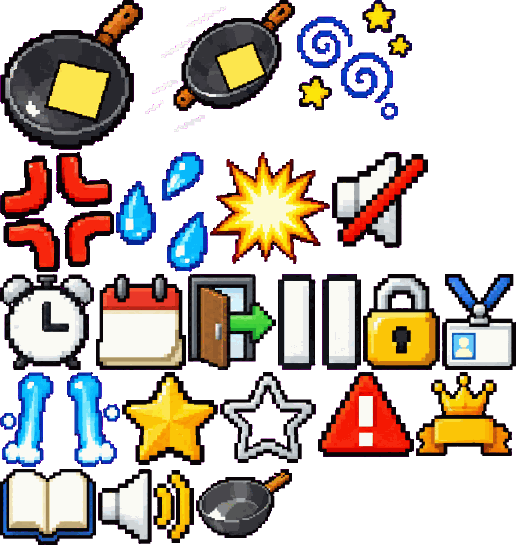
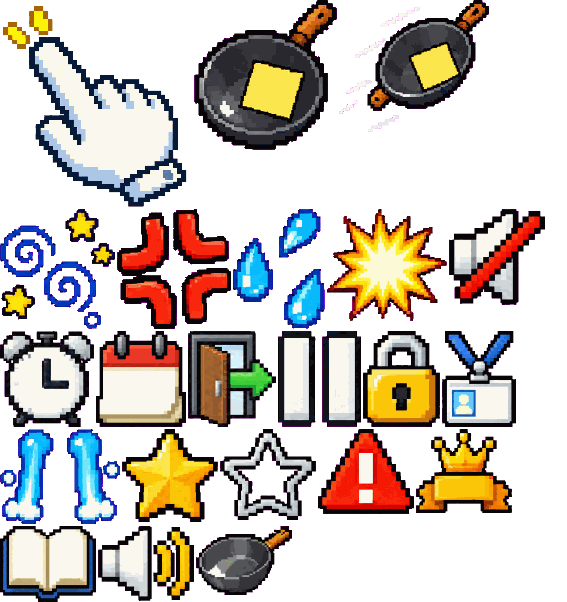
这锅你来背：增加带教手指引导并锁定开始上班确认

diff --git a/js/atlas.js b/js/atlas.js
@@ -1,2 +1,2 @@
 /* 由 assets_pixel/pack_atlas.py 自动生成，不要手改。每张图集里各小图的位置 [x, y, 宽, 高]；文件名带内容哈希，图集更新后浏览器会重新下载 */
-window.ATLAS = {"sheets":[{"file":"boss.png?v=c84c7d96","frames":{"boss_aim":[275,0,234,300],"boss_chase":[0,0,273,300],"boss_idle":[511,0,219,300],"boss_walk":[355,604,168,300],"boss_walk_d0":[525,604,184,297],"boss_walk_d1":[711,604,184,297],"boss_walk_d2":[0,906,184,297],"boss_walk_d3":[186,906,184,297],"boss_walk_s0":[732,0,187,300],"boss_walk_s1":[188,302,176,300],"boss_walk_s2":[0,302,186,300],"boss_walk_s3":[178,604,175,300],"boss_walk_u0":[366,302,176,300],"boss_walk_u1":[544,302,176,300],"boss_walk_u2":[722,302,176,300],"boss_walk_u3":[0,604,176,300]}},{"file":"props.png?v=6e7ce578","frames":{"boss_desk":[529,0,408,326],"cabinet":[556,654,225,218],"cooler":[442,362,132,251],"desk":[0,362,440,290],"meeting_table":[0,0,527,360],"plant":[321,654,233,222],"plant_small":[345,878,145,163],"printer":[783,654,203,205],"sofa":[0,878,343,196],"tea_counter":[0,654,319,222],"whiteboard":[576,362,286,231]}},{"file":"designer.png?v=8859db51","frames":{"designer_angry":[0,0,196,230],"designer_flat":[138,696,230,105],"designer_hit":[198,0,188,230],"designer_normal":[0,696,136,230],"designer_walk_d0":[147,464,144,230],"designer_walk_d1":[585,464,143,230],"designer_walk_d2":[388,0,146,230],"designer_walk_d3":[293,464,144,230],"designer_walk_s0":[536,0,146,230],"designer_walk_s1":[0,464,145,230],"designer_walk_s2":[0,232,146,230],"designer_walk_s3":[439,464,144,230],"designer_walk_u0":[148,232,146,230],"designer_walk_u1":[296,232,146,230],"designer_walk_u2":[444,232,146,230],"designer_walk_u3":[592,232,146,230]}},{"file":"director.png?v=8661d6e9","frames":{"director_aim":[636,604,300,287],"director_chase":[0,0,263,300],"director_idle":[488,604,146,300],"director_walk":[806,0,173,300],"director_walk_d0":[517,302,165,300],"director_walk_d1":[326,604,160,300],"director_walk_d2":[265,0,180,300],"director_walk_d3":[0,604,161,300],"director_walk_s0":[0,302,173,300],"director_walk_s1":[163,604,161,300],"director_walk_s2":[175,302,172,300],"director_walk_s3":[849,302,162,300],"director_walk_u0":[447,0,178,300],"director_walk_u1":[349,302,166,300],"director_walk_u2":[627,0,177,300],"director_walk_u3":[684,302,163,300]}},{"file":"misc.png?v=54102145","frames":{"fx_anger":[0,152,114,120],"fx_dizzy":[297,0,115,120],"fx_impact":[210,152,120,112],"fx_sweat":[116,152,92,120],"fx_tears":[0,372,120,95],"ui_badge":[442,274,74,96],"ui_book":[0,469,96,76],"ui_calendar":[96,274,90,96],"ui_clock":[0,274,94,96],"ui_crown":[416,372,96,84],"ui_exit":[188,274,88,96],"ui_lock":[363,274,77,96],"ui_pause":[278,274,83,96],"ui_sound_off":[332,152,96,96],"ui_sound_on":[98,469,96,75],"ui_star":[122,372,96,93],"ui_star_empty":[220,372,96,91],"ui_warning":[318,372,96,85],"ui_wok":[196,469,96,69],"wok":[0,0,143,150],"wok_flying":[145,0,150,132]}},{"file":"intern.png?v=46c1a2f4","frames":{"intern_cry":[0,0,168,230],"intern_flat":[0,696,230,113],"intern_hit":[170,0,159,230],"intern_normal":[563,464,130,230],"intern_walk_d0":[440,232,140,230],"intern_walk_d1":[0,464,139,230],"intern_walk_d2":[154,232,141,230],"intern_walk_d3":[297,232,141,230],"intern_walk_s0":[331,0,152,230],"intern_walk_s1":[485,0,152,230],"intern_walk_s2":[639,0,152,230],"intern_walk_s3":[0,232,152,230],"intern_walk_u0":[423,464,138,230],"intern_walk_u1":[582,232,140,230],"intern_walk_u2":[141,464,139,230],"intern_walk_u3":[282,464,139,230]}},{"file":"player.png?v=f99e8b0e","frames":{"player_crushed":[0,696,230,217],"player_normal":[289,464,139,230],"player_panic":[0,0,177,230],"player_walk_d0":[295,232,144,230],"player_walk_d1":[441,232,144,230],"player_walk_d2":[329,0,146,230],"player_walk_d3":[587,232,143,230],"player_walk_s0":[0,464,143,230],"player_walk_s1":[430,464,139,230],"player_walk_s2":[145,464,142,230],"player_walk_s3":[571,464,139,230],"player_walk_u0":[477,0,146,230],"player_walk_u1":[625,0,146,230],"player_walk_u2":[0,232,146,230],"player_walk_u3":[148,232,145,230],"player_win":[179,0,148,230]}},{"file":"pm.png?v=2ad2713c","frames":{"pm_angry":[0,0,148,230],"pm_flat":[463,464,230,116],"pm_hit":[150,0,148,230],"pm_normal":[547,0,118,230],"pm_walk_d0":[0,232,118,230],"pm_walk_d1":[234,464,113,230],"pm_walk_d2":[358,232,116,230],"pm_walk_d3":[349,464,112,230],"pm_walk_s0":[120,232,117,230],"pm_walk_s1":[476,232,116,230],"pm_walk_s2":[239,232,117,230],"pm_walk_s3":[594,232,116,230],"pm_walk_u0":[424,0,121,230],"pm_walk_u1":[0,464,115,230],"pm_walk_u2":[300,0,122,230],"pm_walk_u3":[117,464,115,230]}},{"file":"tester.png?v=40e278a0","frames":{"tester_angry":[0,0,166,230],"tester_flat":[0,696,230,104],"tester_hit":[168,0,157,230],"tester_normal":[146,232,136,230],"tester_walk_d0":[418,232,131,230],"tester_walk_d1":[551,232,131,230],"tester_walk_d2":[0,464,131,230],"tester_walk_d3":[133,464,131,230],"tester_walk_s0":[327,0,152,230],"tester_walk_s1":[629,0,144,230],"tester_walk_s2":[481,0,146,230],"tester_walk_s3":[0,232,144,230],"tester_walk_u0":[266,464,130,230],"tester_walk_u1":[398,464,130,230],"tester_walk_u2":[284,232,132,230],"tester_walk_u3":[530,464,130,230]}},{"file":"veteran.png?v=6a5f6ad4","frames":{"veteran_flat":[0,696,230,101],"veteran_hit":[0,0,175,230],"veteran_normal":[634,0,149,230],"veteran_tea":[330,0,150,230],"veteran_walk_d0":[177,0,151,230],"veteran_walk_d1":[300,232,143,230],"veteran_walk_d2":[482,0,150,230],"veteran_walk_d3":[445,232,142,230],"veteran_walk_s0":[0,464,137,230],"veteran_walk_s1":[546,464,126,230],"veteran_walk_s2":[589,232,138,230],"veteran_walk_s3":[417,464,127,230],"veteran_walk_u0":[0,232,149,230],"veteran_walk_u1":[139,464,137,230],"veteran_walk_u2":[151,232,147,230],"veteran_walk_u3":[278,464,137,230]}}]};
+window.ATLAS = {"sheets":[{"file":"boss.png?v=c84c7d96","frames":{"boss_aim":[275,0,234,300],"boss_chase":[0,0,273,300],"boss_idle":[511,0,219,300],"boss_walk":[355,604,168,300],"boss_walk_d0":[525,604,184,297],"boss_walk_d1":[711,604,184,297],"boss_walk_d2":[0,906,184,297],"boss_walk_d3":[186,906,184,297],"boss_walk_s0":[732,0,187,300],"boss_walk_s1":[188,302,176,300],"boss_walk_s2":[0,302,186,300],"boss_walk_s3":[178,604,175,300],"boss_walk_u0":[366,302,176,300],"boss_walk_u1":[544,302,176,300],"boss_walk_u2":[722,302,176,300],"boss_walk_u3":[0,604,176,300]}},{"file":"props.png?v=6e7ce578","frames":{"boss_desk":[529,0,408,326],"cabinet":[556,654,225,218],"cooler":[442,362,132,251],"desk":[0,362,440,290],"meeting_table":[0,0,527,360],"plant":[321,654,233,222],"plant_small":[345,878,145,163],"printer":[783,654,203,205],"sofa":[0,878,343,196],"tea_counter":[0,654,319,222],"whiteboard":[576,362,286,231]}},{"file":"designer.png?v=8859db51","frames":{"designer_angry":[0,0,196,230],"designer_flat":[138,696,230,105],"designer_hit":[198,0,188,230],"designer_normal":[0,696,136,230],"designer_walk_d0":[147,464,144,230],"designer_walk_d1":[585,464,143,230],"designer_walk_d2":[388,0,146,230],"designer_walk_d3":[293,464,144,230],"designer_walk_s0":[536,0,146,230],"designer_walk_s1":[0,464,145,230],"designer_walk_s2":[0,232,146,230],"designer_walk_s3":[439,464,144,230],"designer_walk_u0":[148,232,146,230],"designer_walk_u1":[296,232,146,230],"designer_walk_u2":[444,232,146,230],"designer_walk_u3":[592,232,146,230]}},{"file":"director.png?v=8661d6e9","frames":{"director_aim":[636,604,300,287],"director_chase":[0,0,263,300],"director_idle":[488,604,146,300],"director_walk":[806,0,173,300],"director_walk_d0":[517,302,165,300],"director_walk_d1":[326,604,160,300],"director_walk_d2":[265,0,180,300],"director_walk_d3":[0,604,161,300],"director_walk_s0":[0,302,173,300],"director_walk_s1":[163,604,161,300],"director_walk_s2":[175,302,172,300],"director_walk_s3":[849,302,162,300],"director_walk_u0":[447,0,178,300],"director_walk_u1":[349,302,166,300],"director_walk_u2":[627,0,177,300],"director_walk_u3":[684,302,163,300]}},{"file":"misc.png?v=68e9831a","frames":{"fx_anger":[117,209,114,120],"fx_dizzy":[0,209,115,120],"fx_impact":[327,209,120,112],"fx_sweat":[233,209,92,120],"fx_tears":[0,429,120,95],"ui_badge":[442,331,74,96],"ui_book":[0,526,96,76],"ui_calendar":[96,331,90,96],"ui_clock":[0,331,94,96],"ui_coach_hand":[0,0,192,207],"ui_crown":[416,429,96,84],"ui_exit":[188,331,88,96],"ui_lock":[363,331,77,96],"ui_pause":[278,331,83,96],"ui_sound_off":[449,209,96,96],"ui_sound_on":[98,526,96,75],"ui_star":[122,429,96,93],"ui_star_empty":[220,429,96,91],"ui_warning":[318,429,96,85],"ui_wok":[196,526,96,69],"wok":[194,0,143,150],"wok_flying":[339,0,150,132]}},{"file":"intern.png?v=46c1a2f4","frames":{"intern_cry":[0,0,168,230],"intern_flat":[0,696,230,113],"intern_hit":[170,0,159,230],"intern_normal":[563,464,130,230],"intern_walk_d0":[440,232,140,230],"intern_walk_d1":[0,464,139,230],"intern_walk_d2":[154,232,141,230],"intern_walk_d3":[297,232,141,230],"intern_walk_s0":[331,0,152,230],"intern_walk_s1":[485,0,152,230],"intern_walk_s2":[639,0,152,230],"intern_walk_s3":[0,232,152,230],"intern_walk_u0":[423,464,138,230],"intern_walk_u1":[582,232,140,230],"intern_walk_u2":[141,464,139,230],"intern_walk_u3":[282,464,139,230]}},{"file":"player.png?v=f99e8b0e","frames":{"player_crushed":[0,696,230,217],"player_normal":[289,464,139,230],"player_panic":[0,0,177,230],"player_walk_d0":[295,232,144,230],"player_walk_d1":[441,232,144,230],"player_walk_d2":[329,0,146,230],"player_walk_d3":[587,232,143,230],"player_walk_s0":[0,464,143,230],"player_walk_s1":[430,464,139,230],"player_walk_s2":[145,464,142,230],"player_walk_s3":[571,464,139,230],"player_walk_u0":[477,0,146,230],"player_walk_u1":[625,0,146,230],"player_walk_u2":[0,232,146,230],"player_walk_u3":[148,232,145,230],"player_win":[179,0,148,230]}},{"file":"pm.png?v=2ad2713c","frames":{"pm_angry":[0,0,148,230],"pm_flat":[463,464,230,116],"pm_hit":[150,0,148,230],"pm_normal":[547,0,118,230],"pm_walk_d0":[0,232,118,230],"pm_walk_d1":[234,464,113,230],"pm_walk_d2":[358,232,116,230],"pm_walk_d3":[349,464,112,230],"pm_walk_s0":[120,232,117,230],"pm_walk_s1":[476,232,116,230],"pm_walk_s2":[239,232,117,230],"pm_walk_s3":[594,232,116,230],"pm_walk_u0":[424,0,121,230],"pm_walk_u1":[0,464,115,230],"pm_walk_u2":[300,0,122,230],"pm_walk_u3":[117,464,115,230]}},{"file":"tester.png?v=40e278a0","frames":{"tester_angry":[0,0,166,230],"tester_flat":[0,696,230,104],"tester_hit":[168,0,157,230],"tester_normal":[146,232,136,230],"tester_walk_d0":[418,232,131,230],"tester_walk_d1":[551,232,131,230],"tester_walk_d2":[0,464,131,230],"tester_walk_d3":[133,464,131,230],"tester_walk_s0":[327,0,152,230],"tester_walk_s1":[629,0,144,230],"tester_walk_s2":[481,0,146,230],"tester_walk_s3":[0,232,144,230],"tester_walk_u0":[266,464,130,230],"tester_walk_u1":[398,464,130,230],"tester_walk_u2":[284,232,132,230],"tester_walk_u3":[530,464,130,230]}},{"file":"veteran.png?v=6a5f6ad4","frames":{"veteran_flat":[0,696,230,101],"veteran_hit":[0,0,175,230],"veteran_normal":[634,0,149,230],"veteran_tea":[330,0,150,230],"veteran_walk_d0":[177,0,151,230],"veteran_walk_d1":[300,232,143,230],"veteran_walk_d2":[482,0,150,230],"veteran_walk_d3":[445,232,142,230],"veteran_walk_s0":[0,464,137,230],"veteran_walk_s1":[546,464,126,230],"veteran_walk_s2":[589,232,138,230],"veteran_walk_s3":[417,464,127,230],"veteran_walk_u0":[0,232,149,230],"veteran_walk_u1":[139,464,137,230],"veteran_walk_u2":[151,232,147,230],"veteran_walk_u3":[278,464,137,230]}}]};

diff --git a/js/game.js b/js/game.js
@@ -19,7 +19,7 @@
     'designer_normal', 'designer_hit', 'designer_angry', 'designer_flat',
     'veteran_normal', 'veteran_tea', 'veteran_hit', 'veteran_flat', 'intern_normal', 'intern_cry', 'intern_hit', 'intern_flat',
     'boss_walk', 'boss_aim', 'boss_chase', 'boss_idle', 'director_walk', 'director_aim', 'director_chase', 'director_idle',
-    'wok', 'wok_flying', 'fx_anger', 'fx_tears', 'fx_sweat', 'fx_dizzy', 'fx_impact', 'ui_wok', 'desk', 'meeting_table', 'boss_desk', 'plant', 'plant_small', 'printer', 'cooler',
+    'ui_coach_hand', 'wok', 'wok_flying', 'fx_anger', 'fx_tears', 'fx_sweat', 'fx_dizzy', 'fx_impact', 'ui_wok', 'desk', 'meeting_table', 'boss_desk', 'plant', 'plant_small', 'printer', 'cooler',
     'cabinet', 'whiteboard', 'tea_counter', 'sofa'];
   for (const who of ['player', 'pm', 'tester', 'designer', 'veteran', 'intern', 'boss', 'director'])
     for (const d of 'dus') for (let i = 0; i < 4; i++) SPRITES.push(`${who}_walk_${d}${i}`);
@@ -880,6 +880,46 @@
    * 步骤和文案在 levels.js 的 tutorial 里，这里只写每种步骤「怎么布置、怎么算完成」
    * 带教里的保护：锅不走时间；扇形里没人、站在领导视野里时按「甩」都只提醒不扔；同事站着不动，老板只按剧本丢锅
    * --------------------------------------------------------------------------------------- */
+  // 参考图生成的透明白手套从图集读取，保留宽手掌、长食指和黄色点击线。
+  const coachHand = document.createElement('div');
+  coachHand.id = 'coachHand';
+  coachHand.hidden = true;
+  coachHand.setAttribute('aria-hidden', 'true');
+  coachHand.innerHTML = '<img data-px="ui_coach_hand" alt="">';
+  document.body.appendChild(coachHand);
+  // 最后一步只有开始按钮可操作；进入和离开时清空输入，避免按住摇杆或键盘带入正式局。
+  function coachLocked() { return !!(S && S.tut && S.tut.def && S.tut.def.btn); }
+  function resetCoachInput() {
+    if (inp.id !== null) {
+      try { document.getElementById('stage').releasePointerCapture(inp.id); } catch (_) { /* 指针可能已释放 */ }
+    }
+    inp.down = false; inp.id = null; inp.mag = 0; inp.angle = null; inp.fire = 0; inp.keys = {};
+  }
+  // 捕获阶段拦住触屏、鼠标和快捷键；开始按钮仍可用点击、Enter 和空格激活。
+  for (const name of ['pointerdown', 'pointermove', 'pointerup', 'click', 'keydown', 'keyup', 'contextmenu']) {
+    window.addEventListener(name, (e) => {
+      if (!coachLocked() || mode !== 'play') return;
+      const onStart = e.target instanceof Element && e.target.closest('#hint .h-go');
+      if (onStart && (!name.startsWith('key') || ['Enter', ' '].includes(e.key))) return;
+      e.preventDefault(); e.stopImmediatePropagation();
+    }, { capture: true, passive: false });
+  }
+  // 手指跟随真正的控件位置，旋转屏幕、窄屏和横幅换行后也能指准。
+  function updateCoachHand() {
+    const T = mode === 'play' && S && S.tut;
+    let target = null;
+    if (T && T.step) {
+      if (T.def.btn) {
+        const button = document.querySelector('#hint .h-go');
+        if (button) { const r = button.getBoundingClientRect(); target = { x: r.right - 16, y: r.bottom - 12 }; }
+      } else if (T.step.do === 'walk' && !inp.down && !E.pollKeys(inp)) target = E.stickCenter();
+      else if (T.def.fire && potsOf(S.player) && pickAim(S.player) && !seenBy(S.player)) {
+        const r = btnThrow.getBoundingClientRect(); target = { x: r.left + r.width / 2, y: r.top + r.height / 2 };
+      }
+    }
+    coachHand.hidden = !target;
+    if (target) { coachHand.style.left = `${target.x - 19}px`; coachHand.style.top = `${target.y - 17}px`; }
+  }
   const TUT_BOSS_SPEED = 2;  // 带教时老板走路的倍速，别让人干等
   const TUT_RING_R = 34;     // 走进黄圈多近算到
   // 按人设名找场上的同事
@@ -955,6 +995,9 @@
     rank: {
       btn: '开始上班',
       enter() {
+        resetCoachInput();
+        document.body.classList.add('coach-locked');
+        document.querySelector('#hint .h-go').focus({ preventScroll: true });
         S.tut.showRank = true;
         const chip = document.getElementById('hRank').parentElement;
         chip.classList.remove('pulse'); void chip.offsetWidth; chip.classList.add('pulse');
@@ -999,6 +1042,7 @@
   // 带教结束（做完或跳过）：上班时钟从现在起算，带教里的锅开始走时间，大家回到正常状态
   function startWork() {
     if (!S || !S.tut) return;
+    resetCoachInput();
     S.tut = null;
     S.t0 = S.t;
     for (const a of S.agents) for (const pot of a.sn.segs) if (pot.due === Infinity) pot.due = S.t + potLife();
@@ -1194,6 +1238,8 @@
 
   /* ---------------- 主更新 ---------------- */
   function update(dt) {
+    // 最后一句等玩家确认，所有角色、飞锅和截止时间一起冻结。
+    if (coachLocked()) return;
     S.t += dt;
     if (S.tea > 0) S.tea -= dt;
     if (S.tut) updateTutorial(dt);
@@ -1817,6 +1863,8 @@
   /* ---------------- 流程 ---------------- */
   // 隐藏所有横幅
   function clearBanners() {
+    document.body.classList.remove('coach-locked');
+    coachHand.hidden = true;
     document.getElementById('hint').classList.remove('on');
     document.getElementById('msg').classList.remove('on');
     hintTimer = msgTimer = 0;
@@ -2131,5 +2179,6 @@
     updateBanners(mode === 'play' ? dt : 0);
     if (mode === 'lobby') updateLobby(dt);
     if (S) { draw(time); updateHud(); }
+    updateCoachHand();
   });
 })();

diff --git a/css/style.css b/css/style.css
@@ -466,7 +466,8 @@ button.chip { font-family: var(--display); cursor: pointer; pointer-events: auto
   filter: drop-shadow(0 4px 0 rgba(15, 22, 40, .55)); font-family: var(--pop-font); color: #fff;
 }
 #hint .h-tab {
-  position: absolute; left: 22px; top: -38px; padding: 0 12px; line-height: 28px; font-size: 17px; font-weight: 900; color: var(--ink); letter-spacing: .06em;
+  /* 标题牌压矮 8px，底边仍贴住横幅，减少向顶栏凸出的高度。 */
+  position: absolute; left: 22px; top: -30px; padding: 0 12px; line-height: 20px; font-size: 17px; font-weight: 900; color: var(--ink); letter-spacing: .06em;
   border: 6px solid transparent; border-image: var(--frame-yellow) 4 fill / 6px stretch; box-shadow: inset 0 -3px 0 var(--pop-gold);
 }
 #hint .h-ico {
@@ -510,3 +511,12 @@ button.chip { font-family: var(--display); cursor: pointer; pointer-events: auto
   .lb-day b img { height: 20px; }
   .lb-day span img { height: 20px; }
 }
+
+/* 带教手指：指尖落在目标上，装饰层不截获点击；最后一步只开放开始按钮。 */
+#coachHand { position: fixed; z-index: 12; width: 80px; height: 88px; pointer-events: none; }
+#coachHand img { display: block; width: 100%; height: 100%; object-fit: contain; image-rendering: pixelated; animation: coachTap 1.1s steps(2, end) infinite; }
+@keyframes coachTap { 0%, 100% { transform: translate(7px, 9px); } 45%, 65% { transform: translate(0, 0); } }
+.coach-locked #stage, .coach-locked #hud, .coach-locked #btnThrow { pointer-events: none; }
+.coach-locked #hint .h-go { position: relative; z-index: 1; }
+#hint .h-go:focus-visible { outline: 2px solid var(--paper); outline-offset: 2px; }
+@media (prefers-reduced-motion: reduce) { #coachHand img { animation: none; } }

diff --git a/implementation-notes.md b/implementation-notes.md
@@ -1,5 +1,23 @@
 # 这锅你来背 · 实现记录（临时）
 
+
+## 带教手指换参考图素材（2026-11-01）
+- 用户定的：手绘 SVG 效果差，要贴近所给参考图。
+- 我定的细节（可改）：内置 imagegen 以参考图生成透明底 PNG，保留长食指、宽奶油白手掌、蓝灰阶梯阴影、袖口与黄色点击线；原图留在 `assets_pixel/sheets/ui_coach_hand.png`，缩为 192×207 的游戏素材 `assets/px/ui_coach_hand.png`，显示为 80×88。生成提示词见同目录 `.prompt.txt`。
+- 改动：移除旧 SVG，使用 `data-px` 从图集取图，更新图集并重新对齐指尖；最后一步的操作锁保持现有实现。
+- 偏差：透明背景直接由 imagegen 生成，未用洋红底切图；只做透明边界裁切与最近邻缩小，不改生成图内容；没有新文案，无需裁字体。
+- 已验证：JS 语法和 diff 检查通过；375×812 浏览器检查手指无白底、指尖落在开始按钮；通过临时调试快速到最后一步后点击开始，手指消失、正式计时；控制台无错误。像素素材总计约 1.6 MB。
+- 未验证：真机触屏、完整七步手动通关。
+
+
+## 带教手指与最后一步锁定（2026-11-01）
+- 用户定的：带教操作要有手指引导；最后一步只允许点「开始上班」，确认后正式开始。
+- 我定的细节（可改）：沿用现有像素 SVG 图标做法画透明白手套，配慢速轻点动画；走路时指摇杆，停手时再提示；有锅、瞄准同事且不在领导视野里时指「甩」；最后指「开始上班」。手指不拦截点击，减少动态效果设置下不播放动画。
+- 行为：最后一步冻结对局更新，拦截摇杆、甩锅、跳过、设置、暂停与快捷键；进入/退出时清空按键和摇杆、释放指针捕获，避免把带教操作带入正式局。确认后收起手指，恢复正常输入，上班时钟从 09:00 起算。
+- 偏差：未重新生图，未增加 PNG、图集或文案，无需重新裁字体；保留本次任务前已有的带教标题牌高度调整。
+- 已验证：全部 JS 文件语法检查通过；375×812 浏览器查看最后一步，手指指向按钮；用调试状态快速推进带教后，方向键、暂停快捷键与背景点击未改变玩家位置或对局时间，点击「开始上班」后解除锁定、时钟推进，再暂停并返回大厅正常，控制台无错误。
+- 未验证：真机多指触屏与完整七步手动通关；此次最后一步验证通过临时调试加速到达，未改生产带教步骤。
+
 ## v5（2026-11-01）：三关 + 第 1 关带教
 - 用户定的：两关改三关；新第 1 关要简单、有爽感，基本规则都在第 1 关教完；带教用「停住时间、做对了才往下」；按实现计划里的默认数值开工
 - 原型：`../prototypes/shuaiguo-tutorial.html`（用户看过后确认流程）
